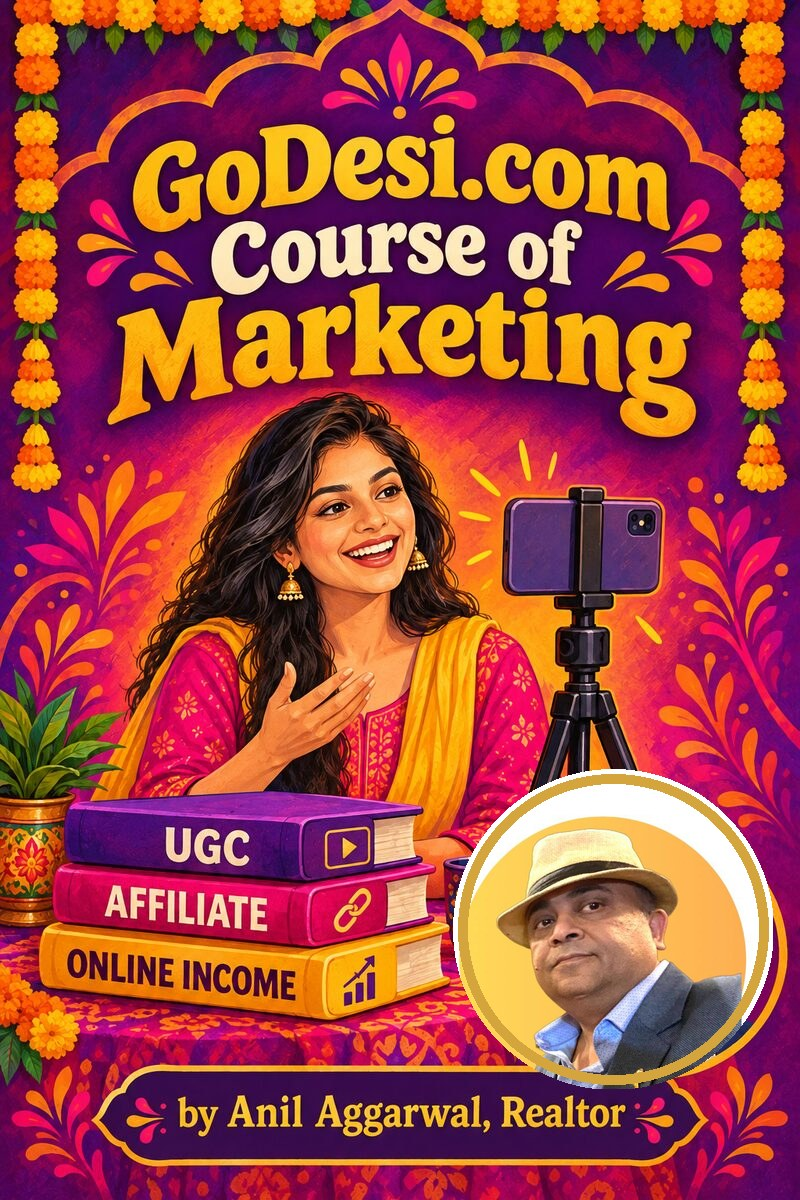
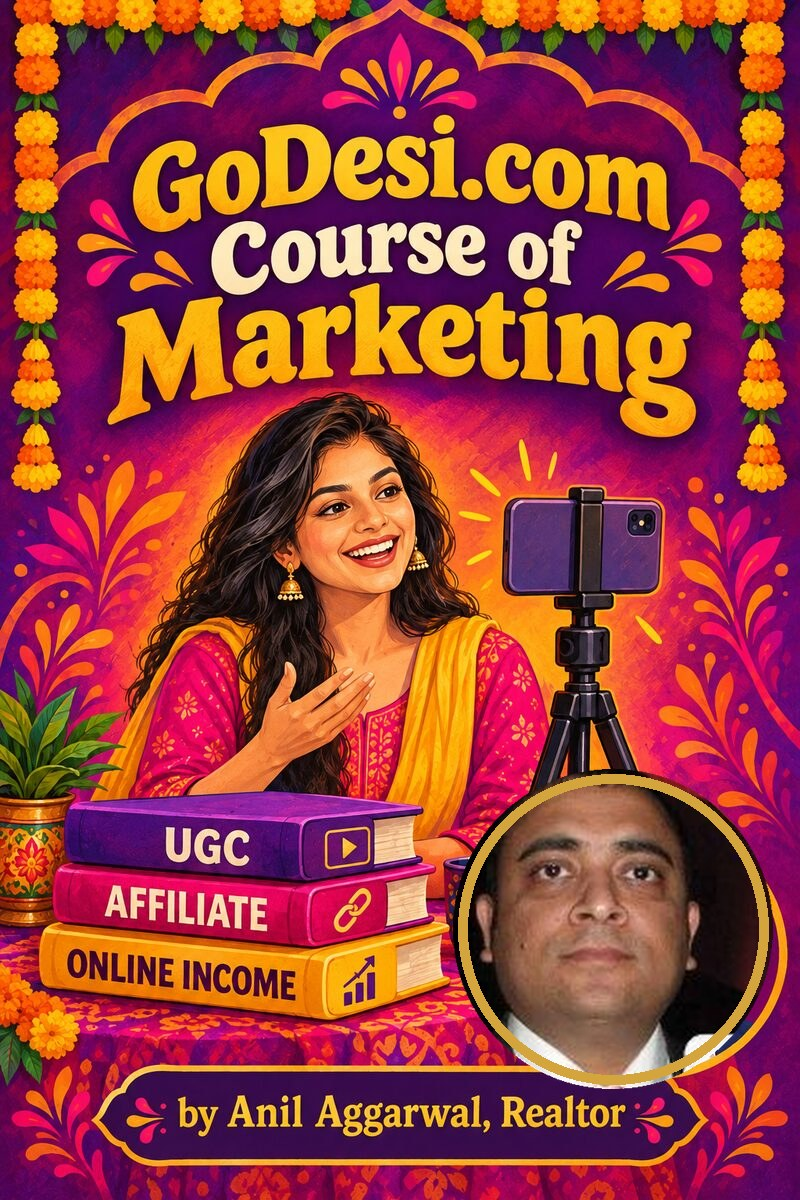
Pro headshot on courses + author card links to Anil's profile

Changed region(s): [[0.5625, 0.6167, 0.9688, 0.925]]

diff --git a/src/app/course/[slug]/page.tsx b/src/app/course/[slug]/page.tsx
@@ -3,7 +3,12 @@ import Link from "next/link";
 import { notFound, redirect } from "next/navigation";
 import { getCurrentUser } from "@/lib/auth";
 import { buyCourseAction, hasCourseAccess } from "@/app/actions/course";
-import { AUTHOR_NAME, AUTHOR_PHOTO, courseBySlug } from "@/lib/courses";
+import {
+  AUTHOR_NAME,
+  AUTHOR_PHOTO,
+  AUTHOR_PROFILE_HREF,
+  courseBySlug,
+} from "@/lib/courses";
 import { Alert, Card } from "@/components/ui";
 
 export const dynamic = "force-dynamic";
@@ -142,21 +147,28 @@ export default async function CourseSalesPage({
         </ol>
       </Card>
 
-      <Card className="flex flex-wrap items-center gap-4 p-5">
-        {/* eslint-disable-next-line @next/next/no-img-element */}
-        <img
-          src={AUTHOR_PHOTO}
-          alt={AUTHOR_NAME}
-          className="h-16 w-16 rounded-2xl object-cover"
-        />
-        <div className="text-sm">
-          <p className="font-bold">Taught by {AUTHOR_NAME}</p>
-          <p className="mt-0.5 text-slate-500">
-            New Jersey realtor, insurance professional and investor — teaching
-            the part-time income paths he uses himself.
-          </p>
-        </div>
-      </Card>
+      <Link href={AUTHOR_PROFILE_HREF} className="group block">
+        <Card className="flex flex-wrap items-center gap-4 p-5 transition group-hover:border-amber-400">
+          {/* eslint-disable-next-line @next/next/no-img-element */}
+          <img
+            src={AUTHOR_PHOTO}
+            alt={AUTHOR_NAME}
+            className="h-16 w-16 rounded-2xl object-cover"
+          />
+          <div className="text-sm">
+            <p className="font-bold">
+              Taught by {AUTHOR_NAME}{" "}
+              <span className="font-semibold text-amber-600 group-hover:underline">
+                View profile →
+              </span>
+            </p>
+            <p className="mt-0.5 text-slate-500">
+              New Jersey realtor, insurance professional and investor — teaching
+              the part-time income paths he uses himself.
+            </p>
+          </div>
+        </Card>
+      </Link>
 
       <Alert tone="info">
         <strong>Why ${price} (was ${listPrice})?</strong> Cheap enough to buy

diff --git a/src/app/course/page.tsx b/src/app/course/page.tsx
@@ -2,7 +2,12 @@ import type { Metadata } from "next";
 import Link from "next/link";
 import { getCurrentUser } from "@/lib/auth";
 import { db } from "@/lib/db";
-import { AUTHOR_NAME, AUTHOR_PHOTO, COURSES } from "@/lib/courses";
+import {
+  AUTHOR_NAME,
+  AUTHOR_PHOTO,
+  AUTHOR_PROFILE_HREF,
+  COURSES,
+} from "@/lib/courses";
 import { Card } from "@/components/ui";
 
 export const dynamic = "force-dynamic";
@@ -54,12 +59,14 @@ export default async function CourseCatalogPage() {
               </span>
             </div>
           </div>
-          {/* eslint-disable-next-line @next/next/no-img-element */}
-          <img
-            src={AUTHOR_PHOTO}
-            alt={AUTHOR_NAME}
-            className="h-28 w-28 shrink-0 rounded-2xl border-4 border-white/40 object-cover shadow-lg sm:h-36 sm:w-36"
-          />
+          <Link href={AUTHOR_PROFILE_HREF} className="group shrink-0">
+            {/* eslint-disable-next-line @next/next/no-img-element */}
+            <img
+              src={AUTHOR_PHOTO}
+              alt={AUTHOR_NAME}
+              className="h-28 w-28 rounded-2xl border-4 border-white/40 object-cover shadow-lg transition group-hover:border-amber-300 sm:h-36 sm:w-36"
+            />
+          </Link>
         </div>
       </section>
 

diff --git a/src/lib/courses/types.ts b/src/lib/courses/types.ts
@@ -27,6 +27,7 @@ export type Course = {
 
 export const AUTHOR_NAME = "Anil Aggarwal, Realtor";
 export const AUTHOR_PHOTO = "/images/courses/anil-aggarwal.jpg";
+export const AUTHOR_PROFILE_HREF = "/b/broker-anil-aggarwal-iselin";
 
 export const LAUNCH_PRICE_MINOR = 900;
 export const LAUNCH_LIST_PRICE_MINOR = 9_900;
